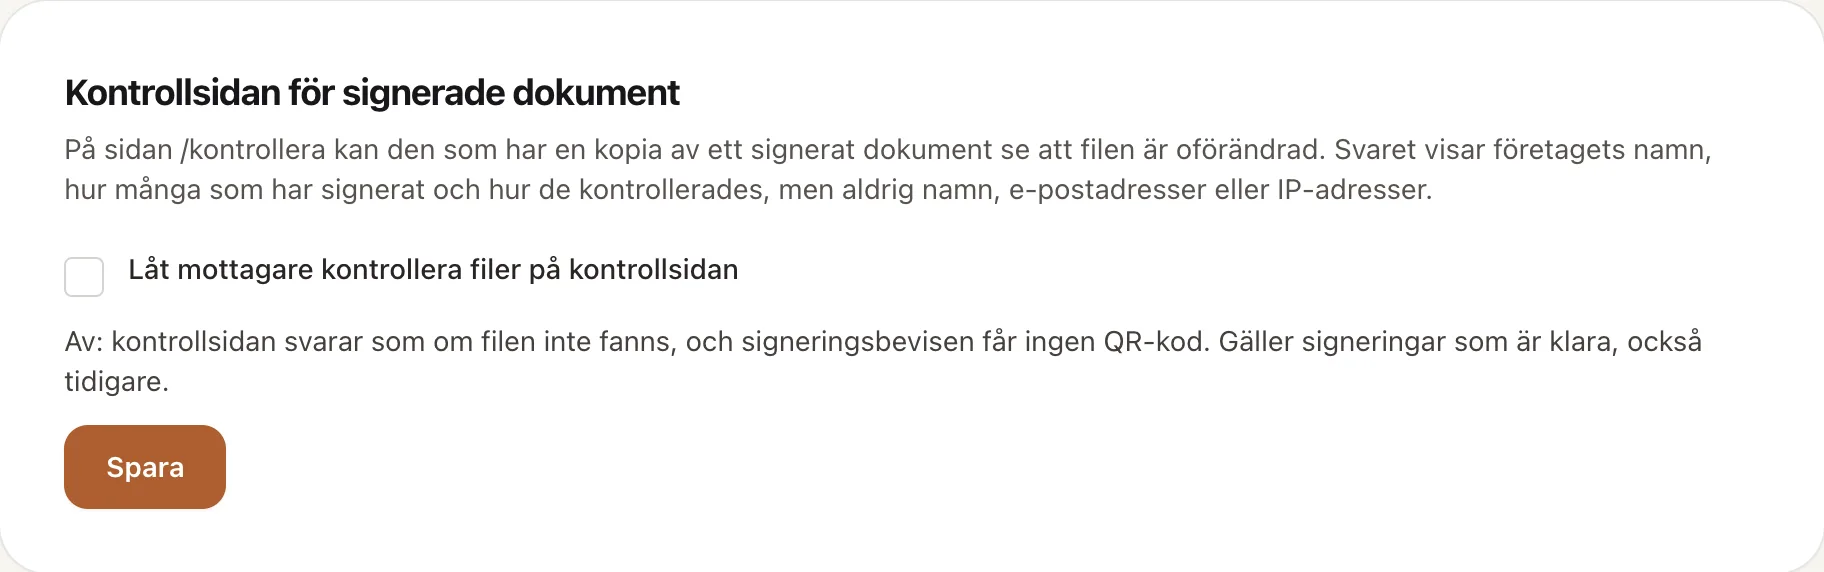
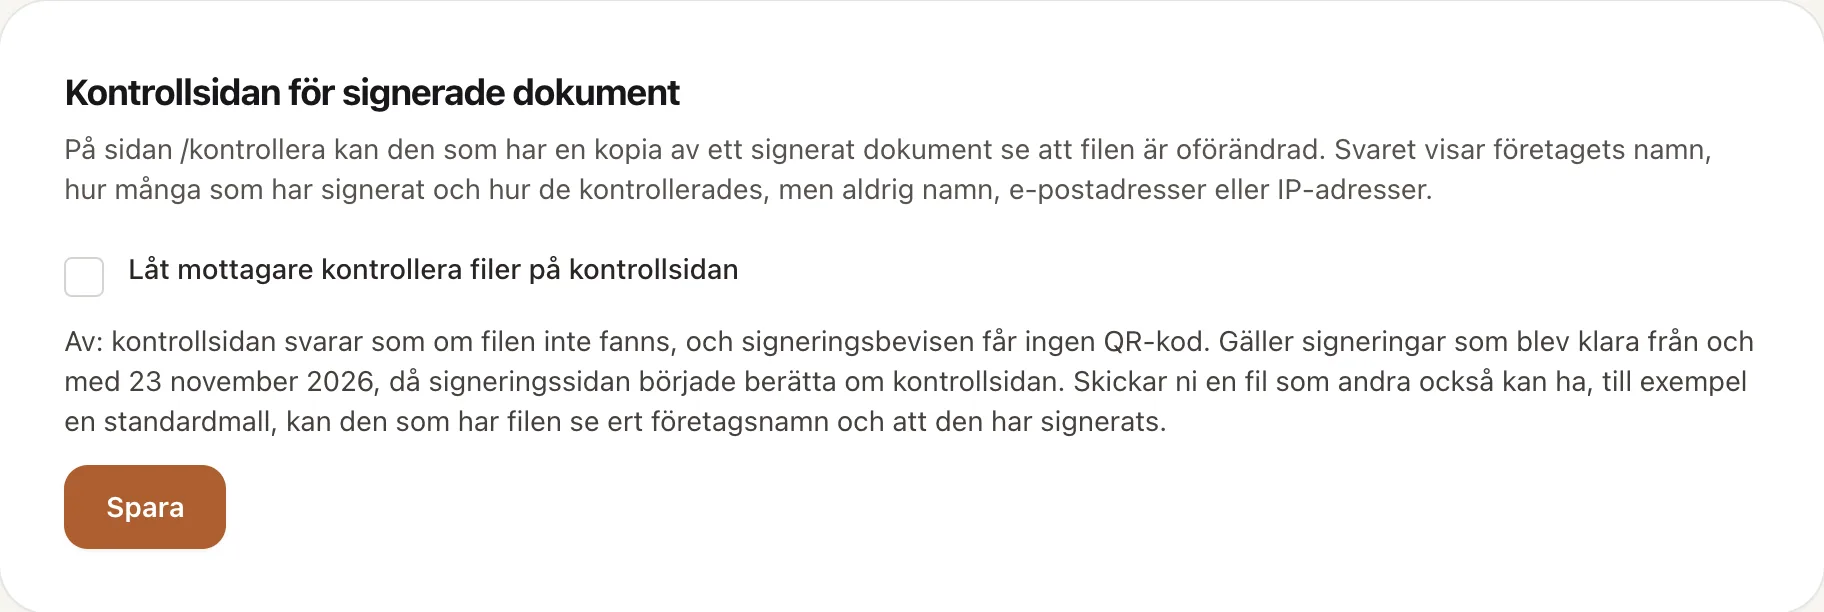
fix(signing): verify page answers only signings completed from the notice date, wording for shared files and what the page shows (ADR-046 S12 legal re-check)

diff --git a/resources/views/signing/page.blade.php b/resources/views/signing/page.blade.php
@@ -226,7 +226,7 @@
                     <span>{{ $acceptance }}</span>
                 </label>
 
-                <p class="text-xs text-gray-600">{{ __('När du signerar sparas ditt namn, din titel, din namnteckning, tidpunkten, din IP-adress och din webbläsare som bevis på att avtalet ingicks, tillsammans med dokumentets kontrollsumma. Personuppgiftsansvarig är :controller. Uppgifterna behandlas för att ingå avtalet och kunna visa att det ingicks (artikel 6.1 b och f i dataskyddsförordningen) och sparas så länge avtalet och bokföringslagen kräver, normalt sju år. NONOX behandlar dem för :company:s räkning. Du har rätt att begära tillgång, rättelse och i vissa fall radering eller begränsning, och att klaga hos Integritetsskyddsmyndigheten (IMY). Du får en kopia med e-post.', ['company' => $companyName, 'controller' => $controller]) }} {{ __('Har avsändaren slagit på kontrollsidan kan den som har en kopia av det signerade dokumentet se på en öppen sida att filen är oförändrad, med avsändarens namn, hur många som har signerat och hur de kontrollerades, men aldrig namn, e-postadresser eller IP-adresser.') }}@if($several ?? false) {{ __('Fler än du signerar dokumentet. När alla har signerat får de andra undertecknarna och de kopiemottagare som avsändaren har valt dokumentet och en sammanställning med ditt namn, din titel och tidpunkten, men inte din namnteckning, IP-adress, webbläsare eller e-postadress.') }}@endif</p>
+                <p class="text-xs text-gray-600">{{ __('När du signerar sparas ditt namn, din titel, din namnteckning, tidpunkten, din IP-adress och din webbläsare som bevis på att avtalet ingicks, tillsammans med dokumentets kontrollsumma. Personuppgiftsansvarig är :controller. Uppgifterna behandlas för att ingå avtalet och kunna visa att det ingicks (artikel 6.1 b och f i dataskyddsförordningen) och sparas så länge avtalet och bokföringslagen kräver, normalt sju år. NONOX behandlar dem för :company:s räkning. Du har rätt att begära tillgång, rättelse och i vissa fall radering eller begränsning, och att klaga hos Integritetsskyddsmyndigheten (IMY). Du får en kopia med e-post.', ['company' => $companyName, 'controller' => $controller]) }} {{ __('Har avsändaren slagit på kontrollsidan kan den som har en kopia av det signerade dokumentet se på en öppen sida att filen är oförändrad, med avsändarens namn, hur många som har signerat och hur de kontrollerades, när alla hade signerat och om filen är förseglad, men aldrig namn, e-postadresser eller IP-adresser.') }}@if($several ?? false) {{ __('Fler än du signerar dokumentet. När alla har signerat får de andra undertecknarna och de kopiemottagare som avsändaren har valt dokumentet och en sammanställning med ditt namn, din titel och tidpunkten, men inte din namnteckning, IP-adress, webbläsare eller e-postadress.') }}@endif</p>
 
                 <button type="submit" data-signing-submit class="inline-flex min-h-12 w-full items-center justify-center rounded-lg px-5 text-base font-semibold text-white sm:w-auto" style="background: {{ $color }}">{{ __('Signera') }}</button>
             </form>

diff --git a/app/Domain/Signing/Verify/VerifyLookup.php b/app/Domain/Signing/Verify/VerifyLookup.php
@@ -14,6 +14,7 @@ use App\Models\SigningDocumentVersion;
 use App\Models\SigningEnvelope;
 use App\Models\SigningRequest;
 use App\Support\Tenancy\CompanyScope;
+use Carbon\CarbonImmutable;
 use Illuminate\Support\Collection;
 
 /**
@@ -23,8 +24,8 @@ use Illuminate\Support\Collection;
  * address or IP address (owner decision 11), never the document's title,
  * never an internal id.
  *
- * Only a completed envelope of a company that has switched the page on is
- * answered; anything else is "not found", exactly alike. Details are given
+ * Only an envelope completed on or after NOTICE_FROM, of a company that has
+ * switched the page on, is answered; anything else is "not found", exactly alike. Details are given
  * only when the hash is in exactly one envelope; in more than one (the same
  * PDF sent twice, by one company or two) the answer says so and nothing else.
  *
@@ -35,6 +36,12 @@ use Illuminate\Support\Collection;
  */
 final class VerifyLookup
 {
+    /**
+     * The day the signing page started telling signers about the Verify page. Only envelopes completed at or
+     * after this moment are answered, so no signer is covered who was not told (legal re-check, N1).
+     */
+    public const string NOTICE_FROM = '2026-11-23 00:00:00 Europe/Stockholm';
+
     public const string ONE = 'one';
 
     public const string MANY = 'many';
@@ -53,6 +60,7 @@ final class VerifyLookup
             ->whereIn('envelope_id', fn ($query) => $query->select('signing_envelopes.id')->from('signing_envelopes')
                 ->join('teams', 'teams.id', '=', 'signing_envelopes.company_id')
                 ->where('signing_envelopes.status', EnvelopeStatus::Completed->value)
+                ->where('signing_envelopes.completed_at', '>=', CarbonImmutable::parse(self::NOTICE_FROM))
                 ->where('teams.signing_verify_enabled', true))
             ->distinct()->limit(2)->pluck('envelope_id')->all());
 

diff --git a/tests/Feature/Signing/VerifyPageTest.php b/tests/Feature/Signing/VerifyPageTest.php
@@ -25,6 +25,7 @@ use App\Modules\Signing\SigningModule;
 use App\Support\Audit\Audit;
 use App\Support\Instance\InstanceSettings;
 use App\Support\Tenancy\CurrentCompany;
+use Carbon\CarbonImmutable;
 use Illuminate\Support\Facades\DB;
 use Illuminate\Support\Facades\Mail;
 use Illuminate\Support\Facades\RateLimiter;
@@ -132,7 +133,7 @@ function s12Json(array $answer): string
 }
 
 beforeEach(function () {
-    $this->travelTo(now()->addMinutes(10)->startOfMinute());
+    $this->travelTo(CarbonImmutable::parse('2026-11-24 10:00:00', 'Europe/Stockholm'));
     Storage::fake('local');
     Mail::fake();
     FakePdfEngine::install();
@@ -315,6 +316,20 @@ it('details a hash that another company has with the page off as one signing: th
     $answer = s12Check($this, $mine->refresh()->document_sha256);
 
     expect($answer['status'])->toBe('one')->and(s12Json($answer))->toContain('Snickeri Demo AB')->not->toContain('Annat Bolag');
+});
+
+it('answers like a miss for an envelope completed before the notice date', function () {
+    s12Switch();
+    $this->travelTo(CarbonImmutable::parse('2026-11-22 23:50:00', 'Europe/Stockholm'));
+    $early = s12Send($this->owner, $this->company, [['email' => 'anna@example.test', 'step' => 1, 'verification' => 'NONE']]);
+    s12Sign('anna@example.test');
+    $this->travelTo(CarbonImmutable::parse('2026-11-23 00:10:00', 'Europe/Stockholm'));
+    $late = s12Send($this->owner, $this->company, [['email' => 'bo@example.test', 'step' => 1, 'verification' => 'NONE']]);
+    s12Sign('bo@example.test', 'Bo');
+    auth()->logout();
+
+    expect(s12Check($this, $early->refresh()->document_sha256))->toBe(s12Check($this, hash('sha256', 'saknas')))
+        ->and(s12Check($this, $late->refresh()->document_sha256)['status'])->toBe('one');
 });
 
 it('answers exactly like not found for a company that has the page off', function () {

diff --git a/resources/views/livewire/company/signing-verify-settings.blade.php b/resources/views/livewire/company/signing-verify-settings.blade.php
@@ -8,7 +8,7 @@
             <input id="signing-verify-enabled" type="checkbox" wire:model="enabled" class="mt-1 h-5 w-5 rounded border-gray-300 text-accent-600 focus:ring-accent-500">
             <label for="signing-verify-enabled" class="font-medium text-gray-800">{{ __('Låt mottagare kontrollera filer på kontrollsidan') }}</label>
         </div>
-        <p>{{ __('Av: kontrollsidan svarar som om filen inte fanns, och signeringsbevisen får ingen QR-kod. Gäller signeringar som är klara, också tidigare.') }}</p>
+        <p>{{ __('Av: kontrollsidan svarar som om filen inte fanns, och signeringsbevisen får ingen QR-kod. Gäller signeringar som blev klara från och med 23 november 2026, då signeringssidan började berätta om kontrollsidan. Skickar ni en fil som andra också kan ha, till exempel en standardmall, kan den som har filen se ert företagsnamn och att den har signerats.') }}</p>
 
         <x-button wire:loading.attr="disabled">{{ __('Spara') }}</x-button>
     </form>

diff --git a/docs/manual/sv/signering/kontrollera.md b/docs/manual/sv/signering/kontrollera.md
@@ -25,13 +25,13 @@ Bara den som har behörigheten att ändra signeringens inställningar kan göra 
 2. I rutan **Kontrollsidan för signerade dokument** kryssar du i **Låt mottagare kontrollera filer på kontrollsidan**.
 3. Tryck på **Spara**.
 
-Inställningen gäller företagets alla signeringar som är klara, också tidigare. Slår du av den svarar sidan som om filerna inte fanns, och nya signeringsbevis får ingen QR-kod.
+Inställningen gäller signeringar som blev klara från och med 23 november 2026, då signeringssidan började berätta om kontrollsidan. Skickar ni en fil som andra också kan ha, till exempel en standardmall, kan den som har filen se ert företagsnamn och att den har signerats. Slår du av den svarar sidan som om filerna inte fanns, och nya signeringsbevis får ingen QR-kod.
 
 ## Så här kontrollerar du en fil
 
 1. Öppna sidan, eller skanna QR-koden på signeringsbeviset eller på sammanställningen.
 2. Under **Välj fil** väljer du PDF-filen på din dator eller telefon.
-3. Sidan svarar direkt: **Filen är oförändrad** eller **Filen finns inte hos NONOX**.
+3. Sidan svarar direkt: **Filen är oförändrad**, **Filen finns inte hos NONOX** eller, om samma fil har skickats för signering mer än en gång, **NONOX har en fil med den här kontrollsumman**.
 
 **Filen lämnar aldrig din enhet.** Din webbläsare räknar ut filens kontrollsumma (SHA-256), ett fingeravtryck på 64 tecken, och bara de tecknen skickas till NONOX. Inte filens namn eller innehåll. NONOX sparar inte kontrollsumman. Din IP-adress används i högst en minut för att begränsa antalet kontroller och finns annars bara i webbserverns vanliga åtkomstlogg.
 
@@ -39,7 +39,7 @@ QR-koden på signeringsbeviset och på sammanställningen innehåller kontrollsu
 
 ## Vad sidan svarar
 
-Sidan svarar bara för signeringar där alla har signerat, och bara när kontrollsumman finns i en enda signering. Då visar den:
+Sidan svarar bara för signeringar där alla har signerat och som blev klara från och med 23 november 2026, och bara när kontrollsumman finns i en enda signering. Då visar den:
 
 - **Företag**: avsändarens namn.
 - **Filen är**: originalet som skickades för signering, versionen efter att en undertecknare har signerat, den förseglade filen eller den omstämplade filen.

diff --git a/docs/adr/ADR-046-crm-signing.md b/docs/adr/ADR-046-crm-signing.md
@@ -3018,7 +3018,10 @@ unchanged.
   script, no third-party script. `verify.js` is in `vite.config.js`.
 - **The lookup** (`app/Domain/Signing/Verify/VerifyLookup.php`) is inside
   `CompanyScope::bypass` with a comment naming this amendment. Decisions
-  2026-11-22: only a **completed** envelope is answered (a draft, an envelope
+  2026-11-22: only a **completed** envelope is answered, and only one completed
+  on or after `VerifyLookup::NOTICE_FROM` (2026-11-23 00:00 Europe/Stockholm, the
+  day the signing page started telling signers about the Verify page; legal
+  re-check N1), filtered in the same subquery (a draft, an envelope
   still out, so not the file after a signer either, an expired, declined or
   withdrawn one is "not found"), and the title is **never** shown, so there is
   nothing to hide for a confidential envelope. The status and the company's

diff --git a/docs/juridik/utkast-1.9-signering.md b/docs/juridik/utkast-1.9-signering.md
@@ -85,7 +85,7 @@ betrodda tjänster enligt eIDAS. Sidan är avstängd för varje företag tills f
 
 > Med kontrollsidan, om företaget har slagit på den: svar till den som har en kopia av ett
 > signerat dokument om att filen är oförändrad, med företagets namn, antal undertecknare och
-> kontrollsätt.
+> kontrollsätt, när alla hade signerat och om filen är förseglad.
 
 **Integritetspolicyn, ny mening om besökare på de öppna sidorna:**
 
